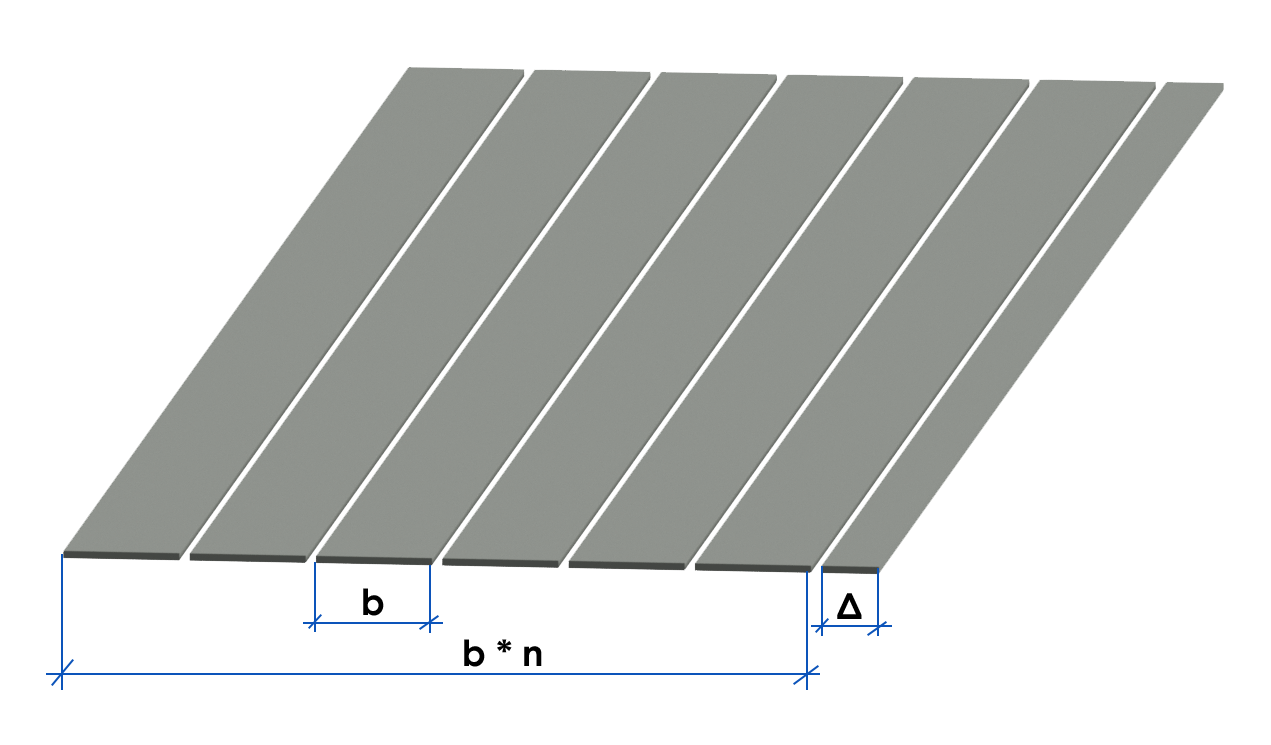
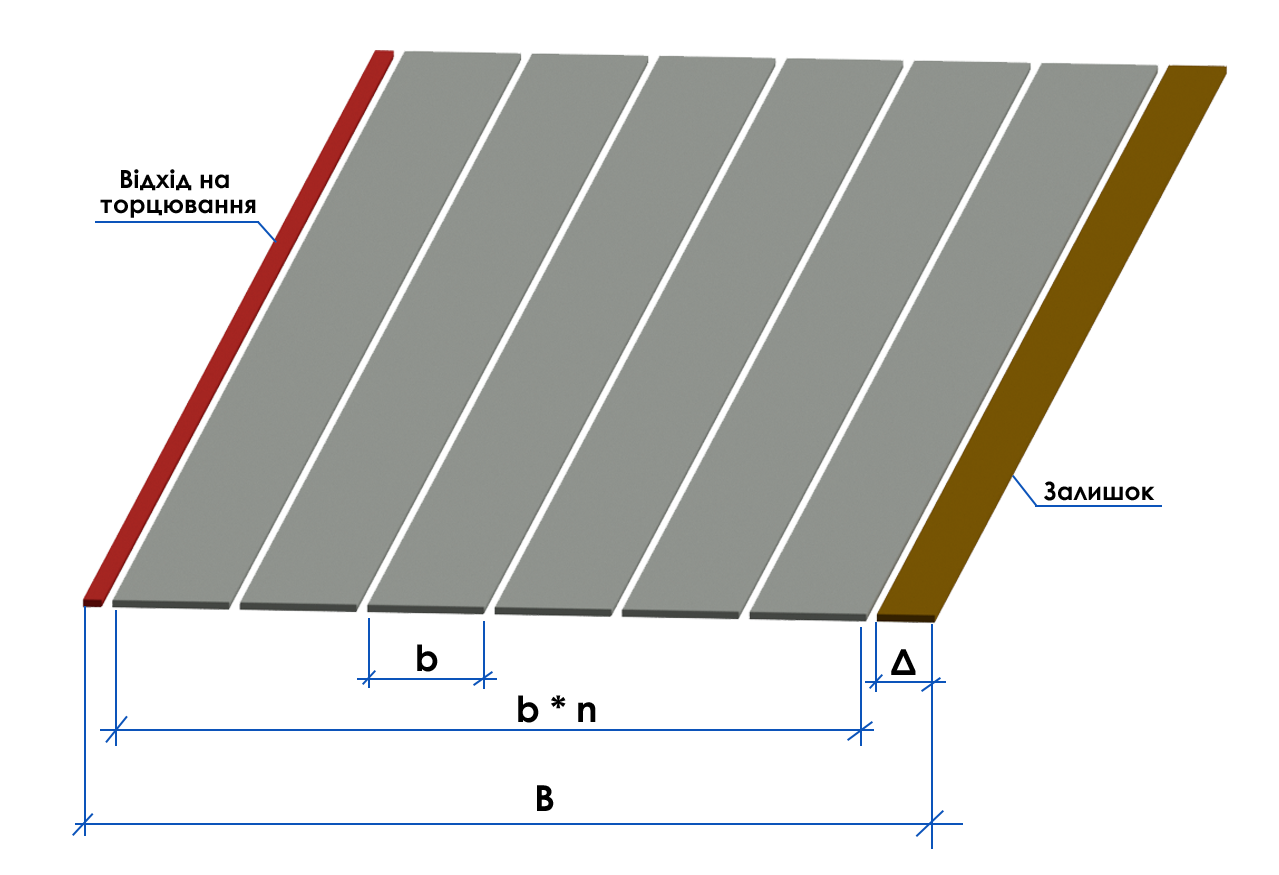
add sheet width and modify img

diff --git a/index.html b/index.html
@@ -57,22 +57,35 @@
                                 <form id="mainForm">
                                     <div class="row justify-content-center mb-3">
                                         <div class="col-6 col-md-5 my-auto text-end">
+                                            <label for="thickness" class="form-label main-label">Товщина листа (t),
+                                                мм</label>
+                                        </div>
+                                        <div class="col-6 col-md-5">
+                                            <select name="thickness" id="thickness" class="form-select" onchange="availableWidth()">
+                                            </select>
+                                        </div>
+                                    </div>
+                                    
+                                    <div class="row justify-content-center mb-3">
+                                        <div class="col-6 col-md-5 my-auto text-end">
+                                            <label for="sheetWidth" class="form-label main-label">Ширина листа (B),
+                                                мм</label>
+                                        </div>
+                                        <div class="col-6 col-md-5">
+                                            <select name="sheetWidth" id="sheetWidth" class="form-select">
+
+                                            </select>
+                                        </div>
+                                    </div>
+
+                                    <div class="row justify-content-center mb-3">
+                                        <div class="col-6 col-md-5 my-auto text-end">
                                             <label for="width" class="form-label main-label">Ширина полоси (b),
                                                 мм</label>
                                         </div>
                                         <div class="col-6 col-md-5">
                                             <input type="number" class="form-control" id='width'
-                                                onchange="Redults()">
-                                        </div>
-                                    </div>
-                                    <div class="row justify-content-center mb-3">
-                                        <div class="col-6 col-md-5 my-auto text-end">
-                                            <label for="thickness" class="form-label main-label">Товщина листа,
-                                                мм</label>
-                                        </div>
-                                        <div class="col-6 col-md-5">
-                                            <input type="number" class="form-control" id='thickness'
-                                                onchange="Redults()">
+                                                onchange="Results()">
                                         </div>
                                     </div>
 
@@ -97,40 +110,16 @@
                             <h3 class="results-header card-title text-center p-2">Обраховані показники</h3>
                             <div class="card-body text-center">
                                 <div class="row mb-5">
-                                    <div class="col-6 col-lg-7 col-xl-6 my-auto text-end">
-                                        <label for="sheetWidth" class="form-label main-label">Прийнята ширина листа,
-                                            мм</label>
-                                    </div>
-                                    <div class="col-6 col-sm-4 col-md-3 col-lg-4 col-xl-3">
-                                        <span id='sheetWidth' class="form-control text-start">-</span>
-                                    </div>
-                                </div>
-                                <div class="row mb-5">
-                                    <div class="col-6 col-lg-7 col-xl-6 my-auto text-end">
-                                        <label for="cutNumber" class="form-label main-label">Кількість полос (n),
-                                            шт</label>
-                                    </div>
-                                    <div class="col-6 col-sm-4 col-md-3 col-lg-4 col-xl-3">
-                                        <span id='cutNumber' class="form-control text-start">-</span>
+                                    <div class="col-6 col-lg-7 col-xl-6 m-auto">
+                                        <h4 class="mb-2 text-secondary">Кількість полос:</h4>
+                                        <h3 class="main-label mb-5"><span id='cutNumber'>-</span> шт.</h3>
+
+                                        <h4 class="mb-2 text-secondary">Залишок &Delta;:</h4>
+                                        <h3 class="main-label mb-5"><span id='deltaMM'>-</span> мм. (<span id='deltaRate'>-</span> %) </h3>
                                     </div>
                                 </div>
-                                <div class="row mb-2">
-                                    <div class="col-6 col-lg-7 col-xl-6 my-auto text-end">
-                                        <label for="deltaMM" class="form-label main-label">Залишок &Delta;,
-                                            мм</label>
-                                    </div>
-                                    <div class="col-6 col-sm-4 col-md-3 col-lg-4 col-xl-3">
-                                        <span id='deltaMM' class="form-control text-start">-</span>
-                                    </div>
-                                </div>
-                                <div class="row mb-5">
-                                    <div class="col-6 col-lg-7 col-xl-6 my-auto text-end">
-                                        <label for="deltaRate" class="form-label main-label">Залишок, %</label>
-                                    </div>
-                                    <div class="col-6 col-sm-4 col-md-3 col-lg-4 col-xl-3">
-                                        <span id='deltaRate' class="form-control text-start">-</span>
-                                    </div>
-                                </div>
+
+
                                 <!-- <div class="row mb-5">
                                     <div class="col-6 col-lg-7 col-xl-6 my-auto text-end">
                                         <label for="parkingSpaces" class="form-label main-label">Оптимальна ширина розкрою, мм</label>

diff --git a/static/js/main.js b/static/js/main.js
@@ -1,6 +1,40 @@
-const SHEET_1 = 2000;
-const SHEET_2 = 1500;
+const SHEETS = {
+  4: [1500],
+  5: [1500],
+  6: [1500],
+  8: [1500, 2000],
+  10: [1500, 2000],
+  12: [1500, 2000],
+  14: [1500, 2000],
+  16: [1500, 2000],
+  18: [2000],
+  20: [1500, 2000],
+  25: [1500, 2000],
+  30: [1500, 2000],
+  40: [2000],
+}
 
+
+// Show thickness
+function showThickness(){
+  // let thicknessSelect = document.getElementById('thickness');
+  let thicknessSelect;
+  for (t in SHEETS){
+    thicknessSelect += `<option value='${t}'>${t}</option>`;
+  }
+  document.getElementById('thickness').innerHTML = thicknessSelect;
+
+}
+
+// Show available Width
+function availableWidth(){
+  let sheetWidthArray = SHEETS[document.getElementById('thickness').value];
+  let sheetWidth;
+  for (w of sheetWidthArray){
+    sheetWidth += `<option value='${w}'>${w}</option>`;
+  }
+  document.getElementById('sheetWidth').innerHTML = sheetWidth;
+}
 
 // Show card with Results
 function Results() {
@@ -36,10 +70,16 @@ function numberWithSpaces(x) {
   return x.toString().replace(/\B(?=(\d{3})+(?!\d))/g, " ");
 }
 
+function numberWithComa(x) {
+  return x.toString().replace('.', ",");
+}
+
 
 function CalculateCutting(){
-  const width = parseInt(document.getElementById("width").value);
-  const thickness = parseInt(document.getElementById("thickness").value);
+  let width = parseInt(document.getElementById("width").value);
+  let thickness = parseInt(document.getElementById("thickness").value);
+  let sheetWidth = parseInt(document.getElementById("sheetWidth").value);
+
   if (!(width && thickness)){
     return false;
   } else if (width < 5 || width > 1995) {
@@ -48,8 +88,7 @@ function CalculateCutting(){
     return false;
   } else {
 
-    let widthNew1 = SHEET_1 - 5;
-    let widthNew2 = SHEET_2 - 5;
+    let widthNew = sheetWidth - 5;
     let cut = 0;
 
     if (thickness <= 6) {
@@ -62,38 +101,18 @@ function CalculateCutting(){
       cut = 4;
     }
 
-    let n1 = Math.floor(widthNew1 / width);
-    let n2 = Math.floor(widthNew2 / width);
+    let n = Math.floor(widthNew / width);
 
-    let delta1 = widthNew1 - n1 * width;
-    let delta2 = widthNew2 - n2 * width;
+    let delta = widthNew - n * width;
 
-    let n;
-    let delta;
-    let sheetWidth;
-
-    if (delta1 < delta2){
-      n = n1;
-      delta = delta1;
-      sheetWidth = SHEET_1;
-    } else {
-      n = n2;
-      delta = delta2;
-      sheetWidth = SHEET_2;
-    }
-
-
-  document.getElementById("sheetWidth").innerText = numberWithSpaces(
-    sheetWidth
-  );
   document.getElementById("cutNumber").innerText = numberWithSpaces(
     n
   );
   document.getElementById("deltaMM").innerText = numberWithSpaces(
     delta
   );
-  document.getElementById("deltaRate").innerText = numberWithSpaces(
-    Math.round(delta/(sheetWidth - 5)*100)
+  document.getElementById("deltaRate").innerText = numberWithComa(
+    Math.round(delta/(sheetWidth - 5)*100 * 10 + Number.EPSILON ) / 10
   );
 
 
@@ -102,3 +121,5 @@ function CalculateCutting(){
 }
 
 
+showThickness();
+availableWidth();
